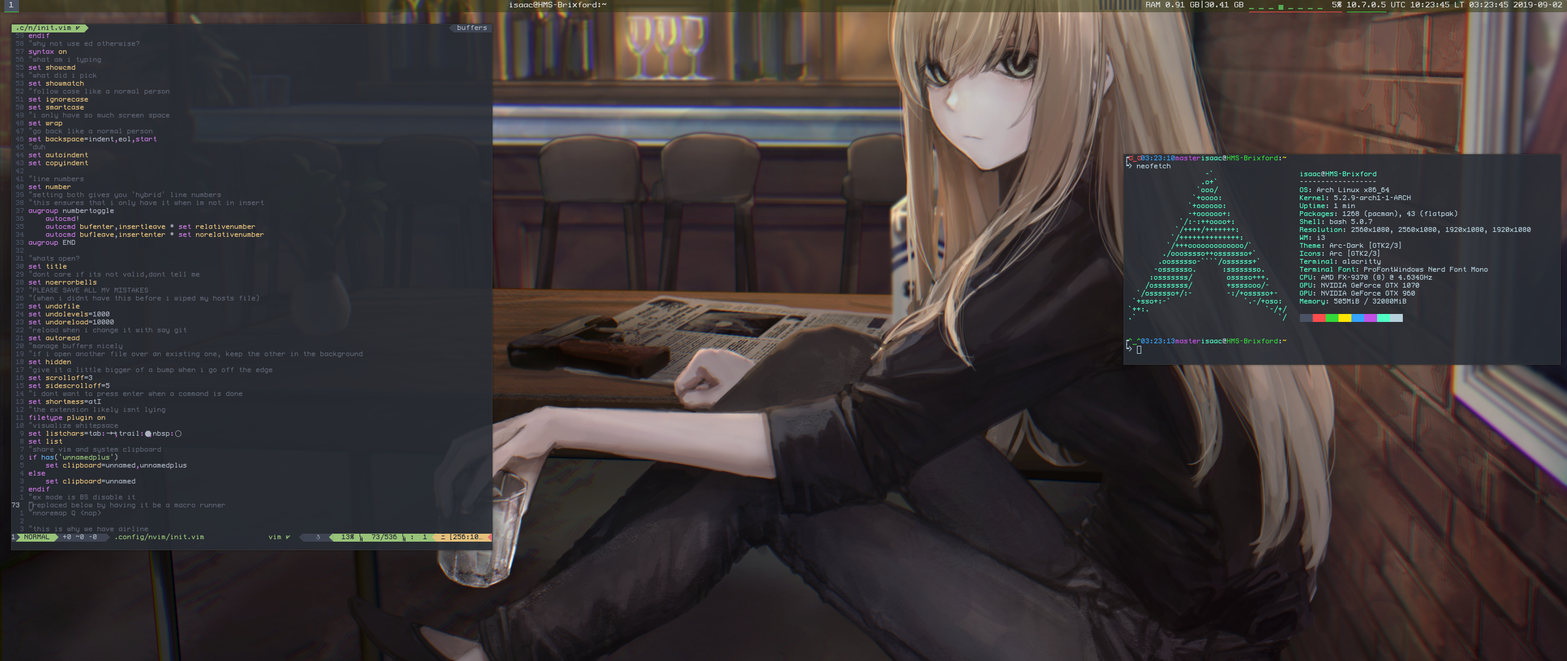
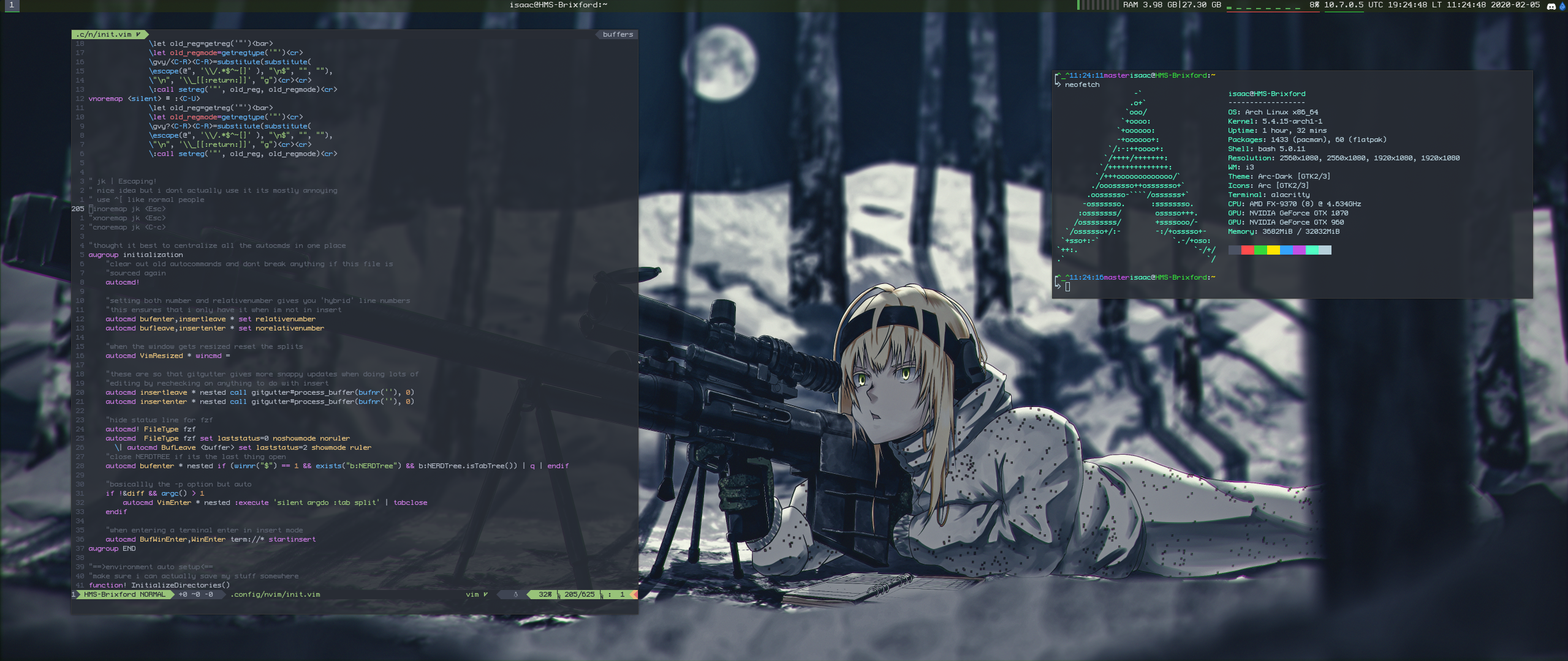
updated wallpaper, screenshot, and readme

diff --git a/README.md b/README.md
@@ -24,7 +24,7 @@ these files were also made by reading a lot of others and ive added links to sou
 
 - distro: [arch](https://www.ubuntu.com/)
 - cli
-  - terminal: [termite](https://github.com/thestinger/termite)
+  - terminal: [alacritty](https://github.com/alacritty/alacritty) with a [termite](https://github.com/thestinger/termite) fallback
   - editor: [neovim](https://github.com/neovim/neovim)
   - font: [ProFont (patched with nerd-fonts)](https://github.com/ryanoasis/nerd-fonts/tree/master/patched-fonts/ProFont)
   - theming: custom one dark inspired but higher saturation
@@ -32,7 +32,7 @@ these files were also made by reading a lot of others and ive added links to sou
   - wm: [i3](https://i3wm.org/)
   - statusbar: [polybar](https://github.com/jaagr/polybar)
   - launcher: [rofi](https://github.com/DaveDavenport/rofi)
-  - compositor: [compton](https://github.com/chjj/compton)
+  - compositor: [picom](https://github.com/yshui/picom)
   - lock: just slock now
-  - wallpaper: a commissioned work from [@HK_819](https://twitter.com/HK_819)
+  - wallpaper: a commissioned work from [@houchi714285](https://twitter.com/houchi714285)
 
